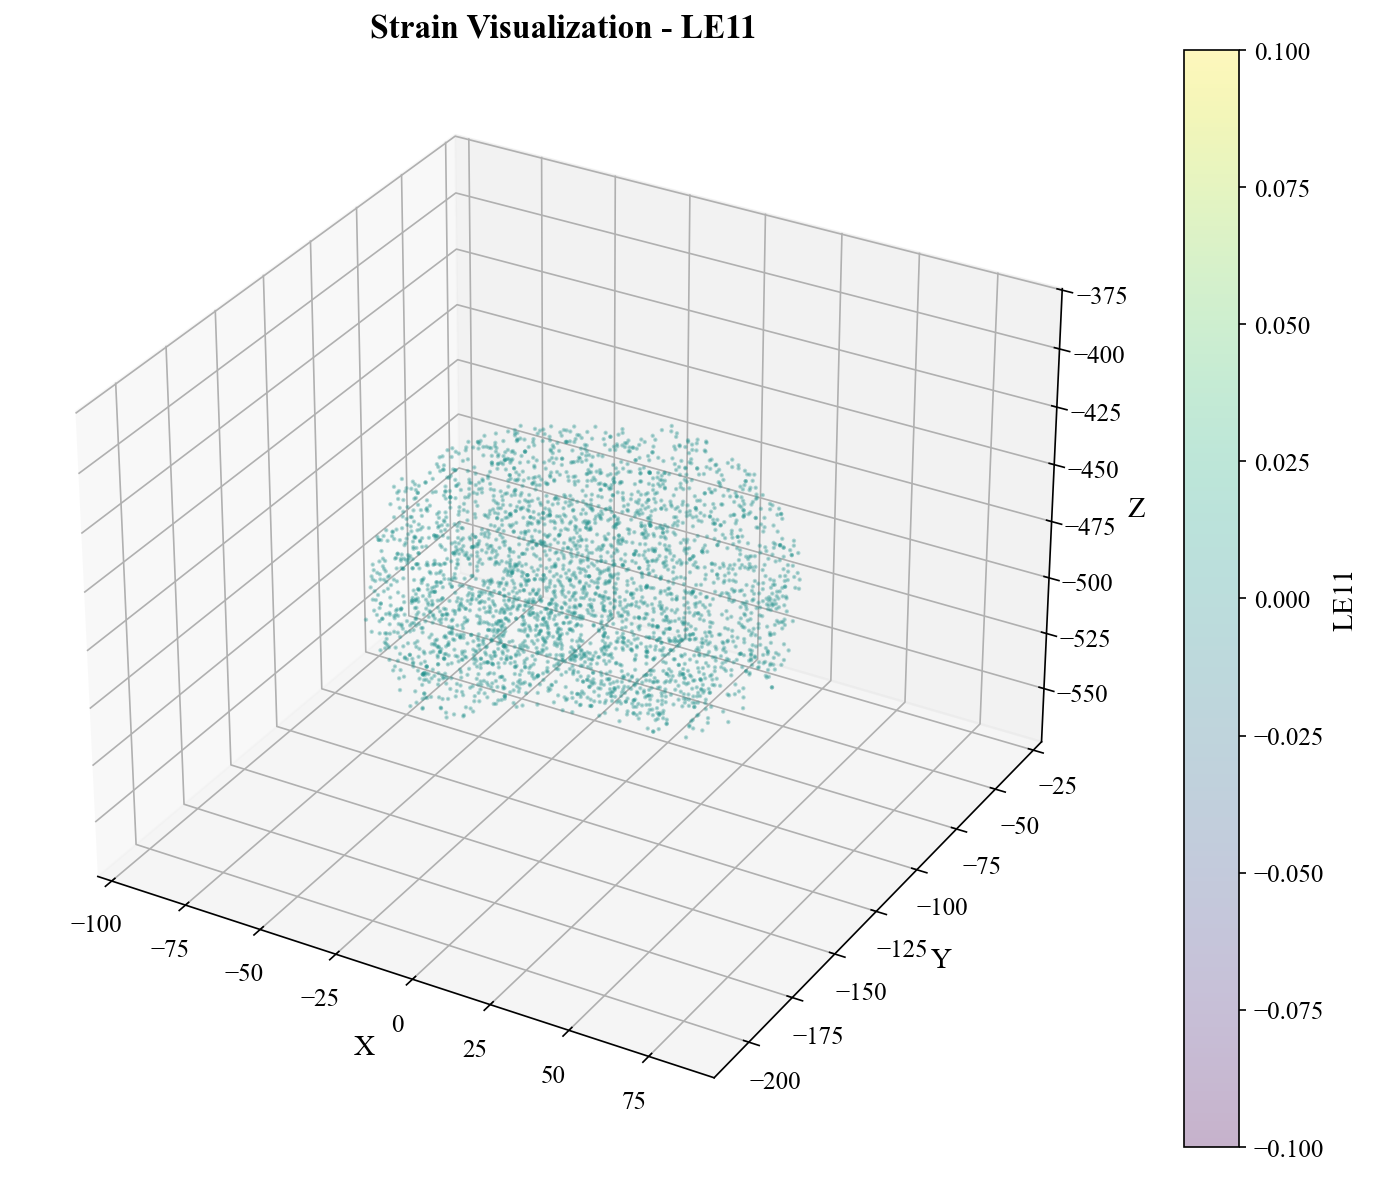
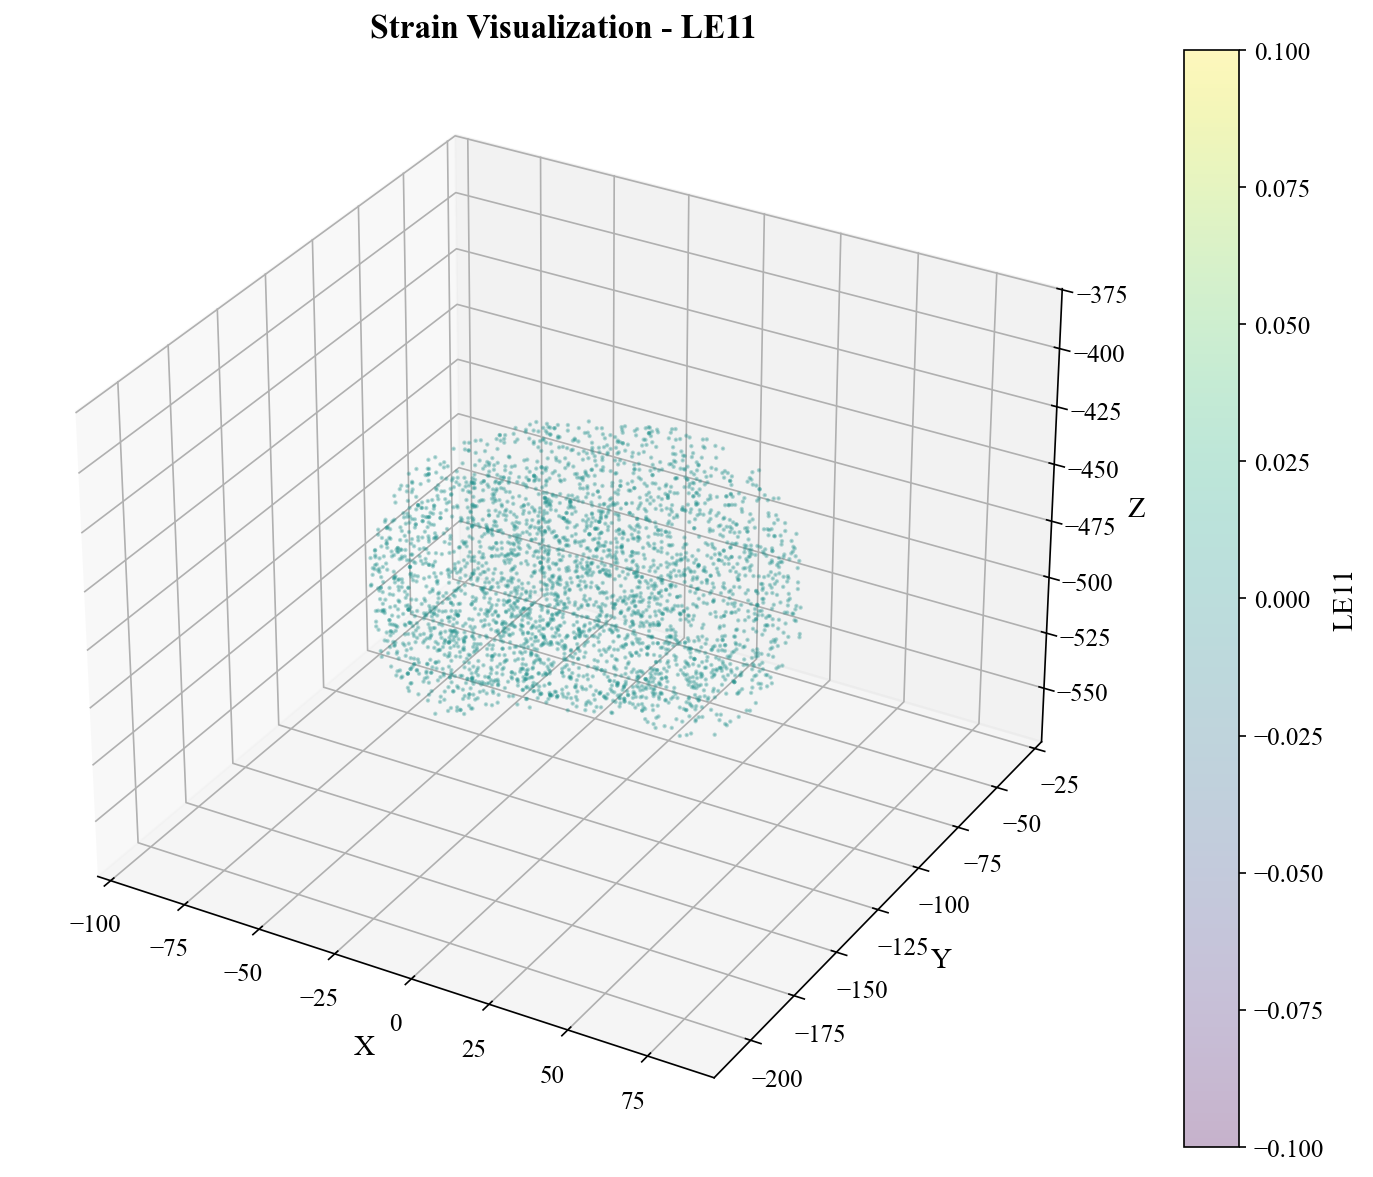
make surface plot - ugly

diff --git a/Scripting/Thesis_Extractions/odb_extract_plot.py b/Scripting/Thesis_Extractions/odb_extract_plot.py
@@ -559,7 +559,224 @@ def visualize_LE_data(model_structure, frame_data, element_set_name='GM_CB', sam
     else:
         print("No valid points with strain data found")
         return False
-# Example usage:
+
+def visualize_LE_abaqus_style(model_structure, frame_data, element_set_name='GM_CB', sample_ratio=0.05, component=0):
+    """
+    Create an Abaqus-like visualization with smooth element surfaces using the working strain extraction approach
+    """
+    import numpy as np
+    import matplotlib.pyplot as plt
+    from mpl_toolkits.mplot3d import Axes3D
+    from mpl_toolkits.mplot3d.art3d import Poly3DCollection
+    import matplotlib.colors as colors
+    import random
+    
+    # Extract field data
+    field_outputs = frame_data.get('field_outputs', {})
+    LE_data = field_outputs.get('LE', {})
+    
+    if not LE_data or 'values' not in LE_data:
+        print("No valid LE data found in the frame")
+        return False
+    
+    # Get strain values and component labels
+    strain_values = LE_data['values']
+    component_labels = LE_data.get('component_labels', [f'Component {i}' for i in range(6)])
+    
+    # Extract model structure
+    elements = model_structure['element_connectivity']
+    node_coordinates = model_structure['node_coordinates']
+    element_set = model_structure['element_sets'].get(element_set_name, [])
+    
+    # Group elements by part
+    part_elements = {}
+    for part_name, elem_id in element_set:
+        if part_name not in part_elements:
+            part_elements[part_name] = []
+        part_elements[part_name].append(elem_id)
+    
+    # Collection for faces and colors
+    faces = []
+    face_colors = []
+    
+    # Track element types for debugging
+    element_types = set()
+    
+    # Process each part
+    for part_name, elem_ids in part_elements.items():
+        if part_name in elements and part_name in node_coordinates:
+            part_connectivity = elements[part_name]
+            part_nodes = node_coordinates[part_name]
+            
+            # Sample elements for performance
+            sample_size = int(len(elem_ids) * sample_ratio)
+            if sample_size < 1:
+                sample_size = 1
+            
+            sampled_elem_ids = random.sample(elem_ids, min(sample_size, len(elem_ids)))
+            print(f"Processing {len(sampled_elem_ids)} elements from part {part_name}")
+            
+            # Process each element
+            for elem_id in sampled_elem_ids:
+                if elem_id in part_connectivity:
+                    elem_data = part_connectivity[elem_id]
+                    node_ids = elem_data['connectivity']
+                    elem_type = elem_data.get('type', '')
+                    
+                    # Track element types
+                    element_types.add(elem_type)
+                    
+                    # Get strain value for this element using the working approach
+                    try:
+                        # This is just a heuristic - the exact mapping depends on your data
+                        strain_idx = (elem_id - 1) % len(strain_values)
+                        strain_value = strain_values[strain_idx]
+                        
+                        # Handle different types of strain values
+                        if isinstance(strain_value, dict):
+                            # Extract from dictionary
+                            if 'value' in strain_value:
+                                strain_value = strain_value['value']
+                            elif 'data' in strain_value:
+                                strain_value = strain_value['data']
+                        
+                        # Handle numpy arrays
+                        if isinstance(strain_value, np.ndarray):
+                            # If it's an array, select the component 
+                            if component < strain_value.size:
+                                strain_value = strain_value[component]
+                            else:
+                                strain_value = strain_value.mean()  # Fallback to mean
+                        
+                        # Final check to ensure we have a scalar value
+                        strain_value = float(strain_value)
+                    except (TypeError, ValueError, IndexError) as e:
+                        # Skip this element if there's an error with strain extraction
+                        continue
+                    
+                    # Get node coordinates
+                    coords = []
+                    for node_id in node_ids:
+                        if node_id in part_nodes:
+                            node_data = part_nodes[node_id]
+                            if isinstance(node_data, dict) and 'coordinates' in node_data:
+                                node_coords = node_data['coordinates']
+                                coords.append([float(c) for c in node_coords])
+                    
+                    if len(coords) >= 3:  # Need at least 3 nodes for a face
+                        # Create faces based on node count
+                        if len(coords) == 4:  # Tetrahedral element
+                            # Create 4 triangular faces
+                            faces.append([coords[0], coords[1], coords[2]])
+                            face_colors.append(strain_value)
+                            faces.append([coords[0], coords[1], coords[3]])
+                            face_colors.append(strain_value)
+                            faces.append([coords[1], coords[2], coords[3]])
+                            face_colors.append(strain_value)
+                            faces.append([coords[0], coords[2], coords[3]])
+                            face_colors.append(strain_value)
+                        elif len(coords) == 8:  # Hexahedral element
+                            # Create 6 quadrilateral faces
+                            faces.append([coords[0], coords[1], coords[2], coords[3]])
+                            face_colors.append(strain_value)
+                            faces.append([coords[4], coords[5], coords[6], coords[7]])
+                            face_colors.append(strain_value)
+                            faces.append([coords[0], coords[1], coords[5], coords[4]])
+                            face_colors.append(strain_value)
+                            faces.append([coords[1], coords[2], coords[6], coords[5]])
+                            face_colors.append(strain_value)
+                            faces.append([coords[2], coords[3], coords[7], coords[6]])
+                            face_colors.append(strain_value)
+                            faces.append([coords[3], coords[0], coords[4], coords[7]])
+                            face_colors.append(strain_value)
+                        elif len(coords) == 10:  # 10-node tetrahedral (C3D10M)
+                            # Use the first 4 nodes to create faces
+                            faces.append([coords[0], coords[1], coords[2]])
+                            face_colors.append(strain_value)
+                            faces.append([coords[0], coords[1], coords[3]])
+                            face_colors.append(strain_value)
+                            faces.append([coords[1], coords[2], coords[3]])
+                            face_colors.append(strain_value)
+                            faces.append([coords[0], coords[2], coords[3]])
+                            face_colors.append(strain_value)
+                        else:
+                            # For unknown element types, create a simple triangular face
+                            faces.append([coords[0], coords[1], coords[2]])
+                            face_colors.append(strain_value)
+    
+    print(f"Element types found: {element_types}")
+    print(f"Created {len(faces)} faces for visualization")
+    
+    if faces:
+        # Setup plot
+        fig = plt.figure(figsize=(12, 10))
+        ax = fig.add_subplot(111, projection='3d')
+        
+        # Create the 3D collection of polygons
+        poly = Poly3DCollection(faces, alpha=0.7)
+        
+        # Calculate color range
+        face_colors = np.array(face_colors)
+        vmin = np.min(face_colors)
+        vmax = np.max(face_colors)
+        print(f"Strain range: {vmin} to {vmax}")
+        
+        # Normalize colors
+        norm = colors.Normalize(vmin=vmin, vmax=vmax)
+        
+        # Set face colors
+        poly.set_facecolor(plt.cm.viridis(norm(face_colors)))
+        
+        # Add the collection to the plot
+        ax.add_collection3d(poly)
+        
+        # Find the overall bounds of the model for proper display
+        all_coords = np.array([coord for face in faces for coord in face])
+        x_min, y_min, z_min = np.min(all_coords, axis=0)
+        x_max, y_max, z_max = np.max(all_coords, axis=0)
+        
+        # Set axis limits
+        ax.set_xlim(x_min, x_max)
+        ax.set_ylim(y_min, y_max)
+        ax.set_zlim(z_min, z_max)
+        
+        # Add a colorbar
+        m = plt.cm.ScalarMappable(cmap=plt.cm.viridis, norm=norm)
+        m.set_array([])
+        cbar = plt.colorbar(m, ax=ax)
+        
+        component_name = component_labels[component] if component < len(component_labels) else f"Component {component}"
+        cbar.set_label(component_name)
+        
+        # Set labels
+        ax.set_xlabel('X')
+        ax.set_ylabel('Y')
+        ax.set_zlabel('Z')
+        
+        # Set title
+        plt.title(f'Strain Visualization - {component_name}')
+        
+        # Set good viewing angle
+        ax.view_init(elev=30, azim=45)
+        
+        # Save figure
+        plt.tight_layout()
+        plt.savefig(f'strain_surface_{component_name.replace(" ", "_")}.png', dpi=300)
+        print(f"Surface visualization saved as strain_surface_{component_name.replace(' ', '_')}.png")
+        
+        # Save alternate views
+        for angle in [0, 90, 180, 270]:
+            ax.view_init(elev=30, azim=angle)
+            plt.savefig(f'strain_surface_{component_name.replace(" ", "_")}_angle{angle}.png', dpi=300)
+            print(f"Saved view from angle {angle}°")
+        
+        return True
+    else:
+        print("No valid faces created for visualization")
+        return False
+
 # Visualize the first component (LE11) for the first frame
 if step_1_frames and 0 in step_1_frames:
     visualize_LE_data(model_structure, step_1_frames[0], component=0)  # 0 = LE11
+    visualize_LE_abaqus_style(model_structure, step_1_frames[0], element_set_name='GM_CB', sample_ratio=0.05, component=0)
+
